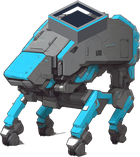
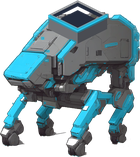
fix(art): the Builder was unreadable as yours, and the gate that should have caught it wasn't looking
Accent coverage 22.8% -> 33.9% (rush) / 22.9% -> 34.2% (boom), against the
S8-05 gate's 30% floor. User's call, 2026-08-26.

THE GATE WAS THE REAL BUG, AGAIN.
accent_coverage_test.gd kept _ARCHETYPES = ["scout","trooper","heavy","sniper"]
— a hand-transcribed list. The Builder was not in it, so a unit sitting 7 points
under the floor, with a roster spread of 2.75x against a 2.5x ceiling, sailed
through a gate that exists for exactly this. It would have failed two of four
assertions the moment it was looked at.

★★ This is S8-14's own finding, in the sibling test, four stories later. S8-14
rewrote the art-coverage and glow-mask guards to enumerate UnitTypes.ALL after a
transcribed list let the Builder ship as a magenta placeholder, and wrote down
"a coverage check that keeps its own copy of the thing it covers is not a
coverage check". accent_coverage_test.gd was written EARLIER (S8-05), for the
SAME purpose, and nobody looked at it. So the gate created because "the Sniper
defect shipped and survived a full art sprint because nothing measured it" did
not measure the roster's newest unit.
⇒ FIXING AN ANTI-PATTERN WHERE YOU FOUND IT IS NOT FIXING IT. When a guard keeps
its own copy of what it covers, grep for its siblings in the same breath.

FIXED THE ART, NOT THE THRESHOLD — which is what the test's own failure message
instructs: "Fix the ART, not this threshold: raise saturated coverage via
promote_accent.py and re-derive. Do NOT touch the silhouette."
[…]

diff --git a/design/assets/asset-manifest.md b/design/assets/asset-manifest.md
@@ -66,7 +66,7 @@ Role silhouettes separate fine without hue; army ownership does not. The art bib
 **non-hue ownership markers** (trim pattern / emblem / silhouette-family trait) remain the actual
 fix — this is the measured number for that work.
 
-| ASSET-012 | Builder | Infantry (4 facings) | rush/boom/neutral | Done (idle) | ★ **Squat four-legged CARRIER walker** — body plan chosen by user 2026-08-25; **re-proportioned shorter and bulkier at user request 2026-08-26** (`builder_rush_r6_c2.png`, seed 1510903717, superseding r3_c2 which read too tall and leggy). The body now dominates the silhouette and the legs are short and crouched. ⚠ The overall sprite aspect barely moved (0.95 → 0.97) — what changed is the **body-to-leg ratio**, which no bounding-box metric detects; judge it by eye. ⚠ Three rounds to get there: shrinking the legs makes SDXL **delete** them (legless sled, tracked barge), and piling on bulk words displaced the grey/four-leg clauses entirely. **Crouching the legs is the lever, not scaling them.** ★ **Cargo cradle DRAWN and composited 2026-08-26** (`tools/asset-pipeline/draw_cargo_cradle.py`) after two further generation rounds could not put a legible one on its back without undoing the body — prompt weight is finite, so strengthening the cradle clause restored the shadow/orange/long-leg failures. Sprite grew 145 → 157 px tall as a result; a visible cradle and a minimal silhouette are opposed and this is the chosen point on that trade. Its cast shadow WAS liftable (machine luma 99 vs shadow 117 — unlike r2, where they measured identical), via a border flood plus an enclosed-pocket clear for the patch walled in by the legs. The roster's only support unit; defenceless and consumed by the structure it raises, so the silhouette must read "not a soldier". Sized by **width** at 140px — narrower than the Scout's 148 so the two four-legged units stay tellable apart. ⚠ **Base look was NOT user-approved**; it was selected by the session and then re-proportioned on user feedback. Full post-mortem — including round 1's orange-dominance and round 2's genuinely unremovable shadow — in `generation-prompts.md` |
+| ASSET-012 | Builder | Infantry (4 facings) | rush/boom/neutral | Done (idle) | ★ **Squat four-legged CARRIER walker** — body plan chosen by user 2026-08-25; **re-proportioned shorter and bulkier at user request 2026-08-26** (`builder_rush_r6_c2.png`, seed 1510903717, superseding r3_c2 which read too tall and leggy). The body now dominates the silhouette and the legs are short and crouched. ⚠ The overall sprite aspect barely moved (0.95 → 0.97) — what changed is the **body-to-leg ratio**, which no bounding-box metric detects; judge it by eye. ⚠ Three rounds to get there: shrinking the legs makes SDXL **delete** them (legless sled, tracked barge), and piling on bulk words displaced the grey/four-leg clauses entirely. **Crouching the legs is the lever, not scaling them.** ★ **Cargo cradle DRAWN and composited 2026-08-26** (`tools/asset-pipeline/draw_cargo_cradle.py`) after two further generation rounds could not put a legible one on its back without undoing the body — prompt weight is finite, so strengthening the cradle clause restored the shadow/orange/long-leg failures. Sprite grew 145 → 157 px tall as a result; a visible cradle and a minimal silhouette are opposed and this is the chosen point on that trade. Its cast shadow WAS liftable (machine luma 99 vs shadow 117 — unlike r2, where they measured identical), via a border flood plus an enclosed-pocket clear for the patch walled in by the legs. The roster's only support unit; defenceless and consumed by the structure it raises, so the silhouette must read "not a soldier". Sized by **width** at 140px — narrower than the Scout's 148 so the two four-legged units stay tellable apart. ★★ **ACCENT COVERAGE RAISED 22.8% → 33.9% on 2026-08-26 (S8-19, user's call).** The shipped Builder carried faction hue on **22.8%** of its body against the S8-05 gate's **30% floor** — 7 points under, and a roster spread of 2.75× against a 2.5× ceiling. ⛔ **It never tripped the gate, because `accent_coverage_test.gd` kept a hand-written archetype list the Builder was not in** — the identical defect S8-14 had just fixed in the two sibling guards, left live in the one written earlier for the same purpose. ⇒ *Fixing an anti-pattern where you found it is not fixing it.* Fixed the **art**, not the threshold, exactly as the test's own failure message instructs: `promote_accent.py --target 34` grows the **existing** accent regions outward (dilation decides how far the accent extends, never where it belongs — brightest-N and value-banded approaches both measured correct and looked like speckle and corduroy). **Silhouette untouched.** ★ 34 was chosen **by eye** from rendered candidates at shipped scale, not as the smallest passing number: at 42% the Builder reads level with the Trooper (42.5%) and looks like a combat unit, which fights the brief; at 33.9% the grey upper hull still dominates, so *'not a soldier'* survives **and** it remains the roster's least-coloured unit by 8.6 points. Gate now enumerates `UnitTypes.ALL`; roster spread 1.85×. Evidence: `production/qa/evidence/s8-14-builder/`. ⚠ **Base look was NOT user-approved**; it was selected by the session, re-proportioned on user feedback, and its accent raised on user decision — but the base look itself is **still unsigned**. Full post-mortem — including round 1's orange-dominance and round 2's genuinely unremovable shadow — in `generation-prompts.md` |
 | ASSET-008 | Sniper | Unit | rush/boom/neutral | Done (idle) | **Base look approved 2026-08-19: `art-source/generated/asset-008-sniper/sniper_rush_r6_c1.png`** (seed 1599279841). Was "deferred" in the spec until the renderer made its absence visible. Ships at **h=156**, the tallest infantry — §3.1 puts it opposite the Scout on the posture axis, and that ratio is the primary thumbnail read. ⚠ Value-corrected in post: the raw generation came out at luma 0.253 against the roster's 0.355, i.e. the "units must be LIGHTER than the stage" defect the infantry session documented, hit again |
 | ASSET-009 | Factory *(was Economy Outpost)* | Structure | rush/boom/neutral | Done (idle) | **Base look approved 2026-08-19: `econ_rush_r5_c2.png`** (seed 2305656182). §3.2 identifier: low + wide, horizontal emphasis, collector forms. Took **5 rounds** — "solar array / collector panels" reliably summons a whole city block (the same failure `factory` has); the singular `bunker` noun plus angled intake vanes is what converged |
 | ASSET-010 | Defensive Structure | Structure | rush/boom/neutral | Done (idle) | **Base look approved 2026-08-19: `def_rush_r2_c2.png`** (seed 3933358768). §3.2 identifier: compact/thick/symmetrical with one dominant elevated emplacement breaking the top. Cleanest convergence of the four — **2 rounds** |

diff --git a/production/qa/evidence/s8-14-builder/README.md b/production/qa/evidence/s8-14-builder/README.md
@@ -1,7 +1,7 @@
 # S8-14 / S8-15 / S8-16 — Builder art evidence
 
 **Captured**: 2026-08-26 · **By**: `/qa-plan sprint` (QA plan Finding 2)
-**Status**: ⛔ **NOT SIGNED OFF** — see "What this is for" below.
+**Status**: ✅ Accent defect **FIXED** (S8-19, re-rendered 2026-08-26) · ⛔ base look **still not signed off**.
 
 ## Sheets
 
@@ -37,9 +37,10 @@ explicit sign-off. ⇒ **The user has still not seen this unit.** These sheets e
   does the work, not the 8 px.
 - **Neutral is achromatic** (0.1% coverage), correct per art-bible §4.2 — neutral means *unowned*.
 
-## ⛔ What they also exposed — see QA plan Finding 3
+## ✅ What they exposed, and how it was fixed — S8-19
 
-`03-builder-vs-roster.png` shows the Builder as **markedly greyer than every other unit**. Measured:
+The first capture of these sheets showed the Builder **markedly greyer than every other unit**, and
+measuring it confirmed a real defect:
 
 | | rush | boom | neutral |
 |---|---:|---:|---:|
@@ -47,27 +48,56 @@ explicit sign-off. ⇒ **The user has still not seen this unit.** These sheets e
 | Trooper | 42.5% | 42.6% | 0.0% |
 | Heavy | 62.7% | 62.0% | 0.0% |
 | Sniper | 43.2% | 43.7% | 0.5% |
-| **Builder** | **22.8%** | **22.9%** | 0.1% |
+| **Builder — was** | ⛔ **22.8%** | ⛔ **22.9%** | 0.1% |
+| ✅ **Builder — now** | **33.9%** | **34.2%** | 0.1% |
 
-**The S8-05 accent gate's owned-faction floor is 30%.** The Builder is **7 points under it**, and
-the roster spread is now **2.75×** against a stated 2.5× ceiling. **It would fail two assertions.**
+**The gate's owned-faction floor is 30%.** The Builder was **7 points under it**, and the roster
+spread was **2.75×** against a 2.5× ceiling — it would have failed two of four assertions.
 
-⛔ **It does not fail, because `accent_coverage_test.gd:21` keeps a hand-written list —
-`["scout", "trooper", "heavy", "sniper"]` — and the Builder is not in it.**
+⛔ **It did not fail, because `accent_coverage_test.gd:21` kept a hand-written list —
+`["scout", "trooper", "heavy", "sniper"]` — and the Builder was not in it.**
 
-★★ **This is exactly the defect S8-14 fixed in the sibling guard, still live in this one.** S8-14
-rewrote the art-coverage and glow-mask guards to enumerate `UnitTypes.ALL`; `accent_coverage_test.gd`
-was written earlier (S8-05) for the same purpose and was not touched. ⚠ **The gate written because
-"the Sniper defect shipped and survived a full art sprint because nothing measured it" does not
-measure the roster's newest unit.**
+★★ **That was S8-14's own finding, still live in the sibling test.** S8-14 rewrote the art-coverage
+and glow-mask guards to enumerate `UnitTypes.ALL` after a transcribed list let the Builder ship as a
+magenta placeholder. `accent_coverage_test.gd` was written earlier (S8-05) **for the same purpose**
+and was never touched. ⇒ **Fixing an anti-pattern where you found it is not fixing it.**
+
+### How it was fixed — art, not threshold
+
+★ The test's own failure message said it: *"Fix the ART, not this threshold: raise saturated
+coverage via `promote_accent.py` and re-derive. Do NOT touch the silhouette."* That is what happened.
+
+`promote_accent.py --target 34` **grows the existing accent regions outward** rather than inventing
+new ones — the artist already decided *where* the accent belongs, dilation only decides how far it
+extends. ⚠ Two earlier approaches (brightest-N pixels, value-banded components) produced correct
+numbers and unusable art — orange speckle and a corduroy artefact. **The silhouette is untouched.**
+
+**Target 34 was chosen by eye against three candidates**, not by picking the smallest passing number:
+
+| Candidate | Shipped | Verdict |
+|---|---:|---|
+| 22.8% (was) | — | ⛔ fails the floor; ownership genuinely weak on a busy board |
+| ✅ **34** | **33.9%** | **Clears the floor by ~4 pts. Grey upper hull still dominates, so "not a soldier" survives. Still the roster's least-coloured unit by 8.6 pts** |
+| 38 | 38.1% | Passes, but the grey mass is visibly shrinking |
+| 42 | 42.7% | ⛔ Reads as a combat unit — level with the Trooper's 42.5%. Fights the design |
+
+★★ **Why not just clear the floor by the minimum:** the brief deliberately says *"grey everywhere
+else"* and *"the silhouette has to say 'not a soldier' before any colour is read"*, so the Builder
+**should** be the least-coloured unit — but ownership still has to read. 33.9% keeps both true.
+⚠ Judged by rendering the candidates side by side at shipped scale on the stage colour, per the
+standing rule: *a correct metric with wrong art is the normal case — if a number is the only check,
+bad art passes.*
+
+✅ **Gate now enumerates `UnitTypes.ALL`** via `EntitySpriteCatalog.type_token`, the same call the
+renderer uses, so it cannot drift from what the game loads. **Verified to have teeth**: raising the
+floor to 40% makes it fail naming *"builder rush … 33.9% … below the 40.0% floor"* and
+*"builder boom … 34.2%"*. Roster spread is now **1.85×**.
 
 ## ⚠ Open, needs the user
 
 1. **Sign off or reject the base look** — never approved.
-2. **The 22.8% question is a DESIGN call, not a bug to patch.** The brief deliberately says *"grey
-   everywhere else"* and *"the silhouette has to say 'not a soldier' before any colour is read"*, so
-   low accent coverage is partly **intended**. But ownership still has to read on a busy board, and
-   22.8% is closer to the Sniper defect (13.3%) than to the roster mean (48.5%).
+2. ✅ **The coverage question is resolved** (S8-19, above) — repaint to 33.9%, user's call
+   2026-08-26. ⚠ **Judge the result**: the sheets here are the post-fix art.
 3. **The S8-15 → S8-16 trade**: the cradle grew the sprite 145 → 157 px, giving back part of S8-15's
    "shorter". ★ Acknowledged in the commit as the chosen point on an opposed trade, and **cheap to
    move**.

diff --git a/production/qa/qa-plan-sprint-8-2026-08-26.md b/production/qa/qa-plan-sprint-8-2026-08-26.md
@@ -106,9 +106,10 @@ re-proportioned it twice on user feedback given verbally.
 
 ---
 
-## ⛔⛔ FINDING 3 — The accent gate does not cover the Builder, and the Builder would fail it
+## ✅ FINDING 3 — The accent gate did not cover the Builder, and the Builder failed it
 
-**Severity: BLOCKING for the art guard's credibility. Found by capturing Finding 2's evidence.**
+**Severity: was BLOCKING. ✅ RESOLVED 2026-08-26 (S8-19) — art repainted, gate now enumerates.**
+Found by capturing Finding 2's evidence, which is the whole argument for capturing it.
 
 Measured with the gate's own formula (α ≥ 40/255, v ≥ 60/255, s ≥ 0.45):
 
@@ -118,7 +119,8 @@ Measured with the gate's own formula (α ≥ 40/255, v ≥ 60/255, s ≥ 0.45):
 | Trooper | 42.5% | 42.6% | 0.0% |
 | Heavy | 62.7% | 62.0% | 0.0% |
 | Sniper | 43.2% | 43.7% | 0.5% |
-| ⛔ **Builder** | **22.8%** | **22.9%** | 0.1% |
+| ⛔ **Builder — was** | **22.8%** | **22.9%** | 0.1% |
+| ✅ **Builder — now** | **33.9%** | **34.2%** | 0.1% |
 
 `accent_coverage_test.gd` asserts an owned-faction floor of **30.0%** and a roster spread ceiling of
 **2.5×**. The Builder is **7.2 points under the floor**, and including it takes the spread to
@@ -144,22 +146,38 @@ not measure the roster's newest unit.** The next unit added will not be measured
 ★★ **The lesson generalises past both instances: fixing an anti-pattern where you found it is not
 fixing it.** Sprint 8 has now found three lists-that-should-have-been-enumerations and fixed two.
 
-### ⚠ The number is a DESIGN question; the enumeration is not
+### ✅ How it was resolved — the art, not the threshold
 
-**The enumeration is a straight fix** — make it read `UnitTypes.ALL`, like its siblings.
-⛔ **Doing so turns the suite red until the 22.8% is resolved**, and that resolution is the user's:
+**User's call, 2026-08-26: repaint to clear 30%.** The test's own failure message prescribes the
+route — *"Fix the ART, not this threshold: raise saturated coverage via `promote_accent.py` and
+re-derive. Do NOT touch the silhouette."*
 
-- The Builder brief **deliberately** says *"grey everywhere else"* and *"the silhouette has to say
-  'not a soldier' before any colour is read"* — **low accent coverage is partly intended.**
-- But **ownership still has to read on a busy board**, and 22.8% sits closer to the Sniper defect
-  that motivated the gate (13.3%) than to the roster mean (48.5%).
-- ★ The floor was set *"~12 points below the lowest shipping archetype"* — chosen against a roster
-  of **combat** units. A defenceless support unit may legitimately want a different rule.
+`promote_accent.py --target 34` **grows the existing accent regions outward** instead of inventing
+new ones: the artist already decided *where* the accent belongs and dilation only decides how far it
+extends, so the result reads as a bolder version of the same design. ⚠ Two earlier approaches
+recorded in that tool — brightest-N pixels and value-banded components — both **measured correct and
+looked wrong** (orange speckle; a corduroy artefact). **Silhouette untouched.**
 
-**Options (user's call):** repaint the Builder to clear 30% · lower the floor with a stated rationale
-· carve out a support-unit band and assert *that* · accept and record with the gate enumerating all
-types but exempting Builder explicitly (⚠ an exemption list is the same anti-pattern again — if
-taken, it must be a **data flag on the type**, not a name in the test).
+★★ **34 was chosen by eye from rendered candidates, not as the smallest passing number:**
+
+| Candidate | Shipped | Verdict |
+|---|---:|---|
+| was | 22.8% | ⛔ fails the floor |
+| ✅ **34** | **33.9%** | Clears by ~4 pts · grey upper hull still dominates · **still the roster's least-coloured unit by 8.6 pts** |
+| 38 | 38.1% | Passes; grey mass visibly shrinking |
+| 42 | 42.7% | ⛔ reads as a combat unit, level with the Trooper's 42.5% |
+
+⚠ **Why not the minimum that passes:** the brief deliberately wants the Builder greyest — *"the
+silhouette has to say 'not a soldier' before any colour is read"*. But ownership must still read on
+a busy board. **33.9% is the point where both are true**, and it was picked by compositing all four
+at shipped scale on the stage colour — per the standing rule that *a correct metric with wrong art
+is the normal case; if a number is the only check, bad art passes.*
+
+✅ **Gate now enumerates `UnitTypes.ALL`** through `EntitySpriteCatalog.type_token` — the same call
+the renderer uses to build a sprite path, so the gate cannot drift from what the game loads.
+✅ **Verified to have teeth**, per the project's distrust-clean-results rule: raising the floor to
+40% fails naming *"builder rush … 33.9% … below the 40.0% floor"* and *"builder boom … 34.2%"*.
+✅ Roster spread **2.75× → 1.85×**. Suite **1307/1307**.
 
 ---
 
@@ -375,8 +393,8 @@ Run via `/smoke-check sprint` before any QA hand-off:
       analyses anything against them**
 - [x] ⚠ Finding 2 — Builder art evidence captured → `production/qa/evidence/s8-14-builder/`
       ⛔ **sign-off still owed** (the base look was never user-approved)
-- [ ] ⛔ **Finding 3 resolved** — accent gate enumerates `UnitTypes.ALL`, and the Builder's 22.8%
-      is either fixed or deliberately exempted by a **data flag**, never by a name in the test
+- [x] ✅ **Finding 3 resolved** — accent gate enumerates `UnitTypes.ALL`; Builder repainted 22.8% →
+      33.9%; gate verified failing at a raised floor
 - [x] All Logic/Integration stories have passing tests — **1307/1307, 0 orphans**
 - [ ] Smoke check passed (`/smoke-check sprint`), covering items 3–6 above
 - [ ] `REPORT.md` carries a fresh verdict with all five §10 criteria assessed
